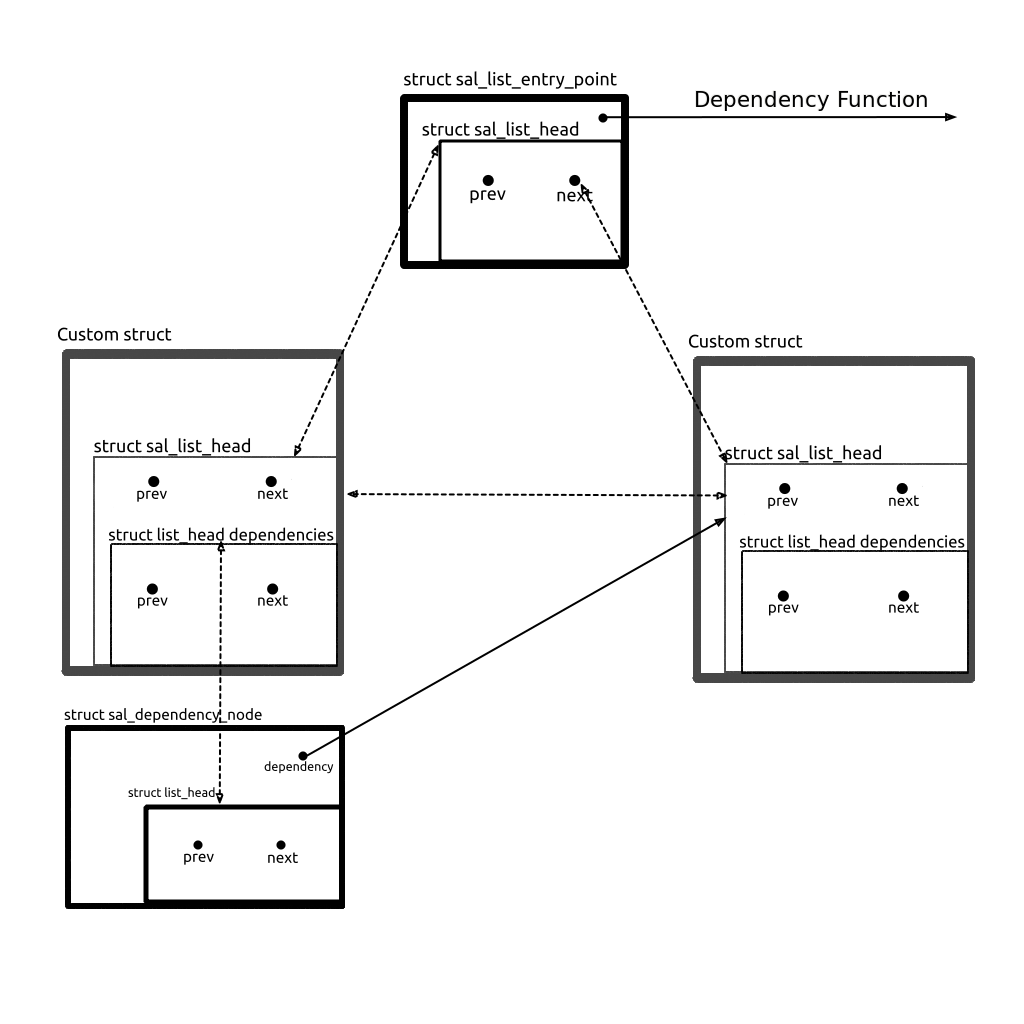
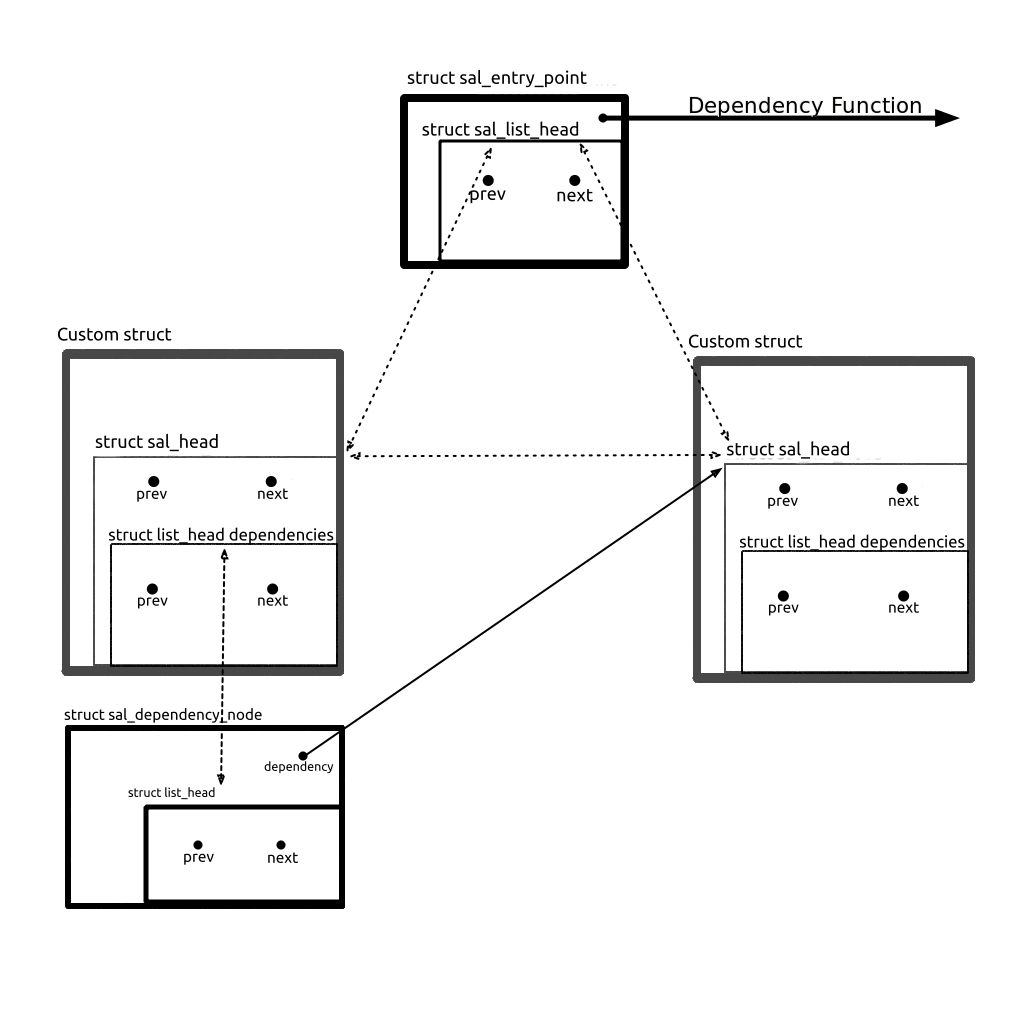
changed structure names to sal_head and sal_entry_point

diff --git a/selfAdjustingList_generic/Documentation/README.md b/selfAdjustingList_generic/Documentation/README.md
@@ -3,13 +3,13 @@
 ![Implementation](./graphics/sal_data_structure.png)
 
 ## Description of the internal structures
-### struct sal_list_entry_point
+### struct sal_entry_point
 This structure is the start of the list. It needs to be created first. It contains a function pointer to the function which calculates if there is a dependency between two nodes.
-It also contains a `struct sal_list_head` which holds a next and a previous pointer to the first and the last element of the list. Initially both pointers point to itself.
-It also contains a list structure for dependencies. This list is never used for the `sal_list_entry_point`, but left in there so that it easier to loop over the entire list.(overhead of 2 * sizeof( pointers ) )
+It also contains a `struct sal_head` which holds a next and a previous pointer to the first and the last element of the list. Initially both pointers point to itself.
+It also contains a list structure for dependencies. This list is never used for the `sal_entry_point`, but left in there so that it easier to loop over the entire list.(overhead of 2 * sizeof( pointers ) )
 
-### struct sal_list_head
-As already mentioned: This structure holds 2 `struct sal_list_head` pointers for the next and the previous element in the list as well as a `struct list_head`, which is a doubley linked list in the linux kernel, which is used to store `struct sal_dependency_node`s.
+### struct sal_head
+As already mentioned: This structure holds 2 `struct sal_head` pointers for the next and the previous element in the list as well as a `struct list_head`, which is a doubley linked list in the linux kernel, which is used to store `struct sal_dependency_node`s.
 
 ### struct sal_dependency_node
 This structure is used to store the dependecies of an item in the list. It holds a pointer to the item where a dependency has been detected and the `struct list_head` which links the `struct sal_dependency_node`s together.
